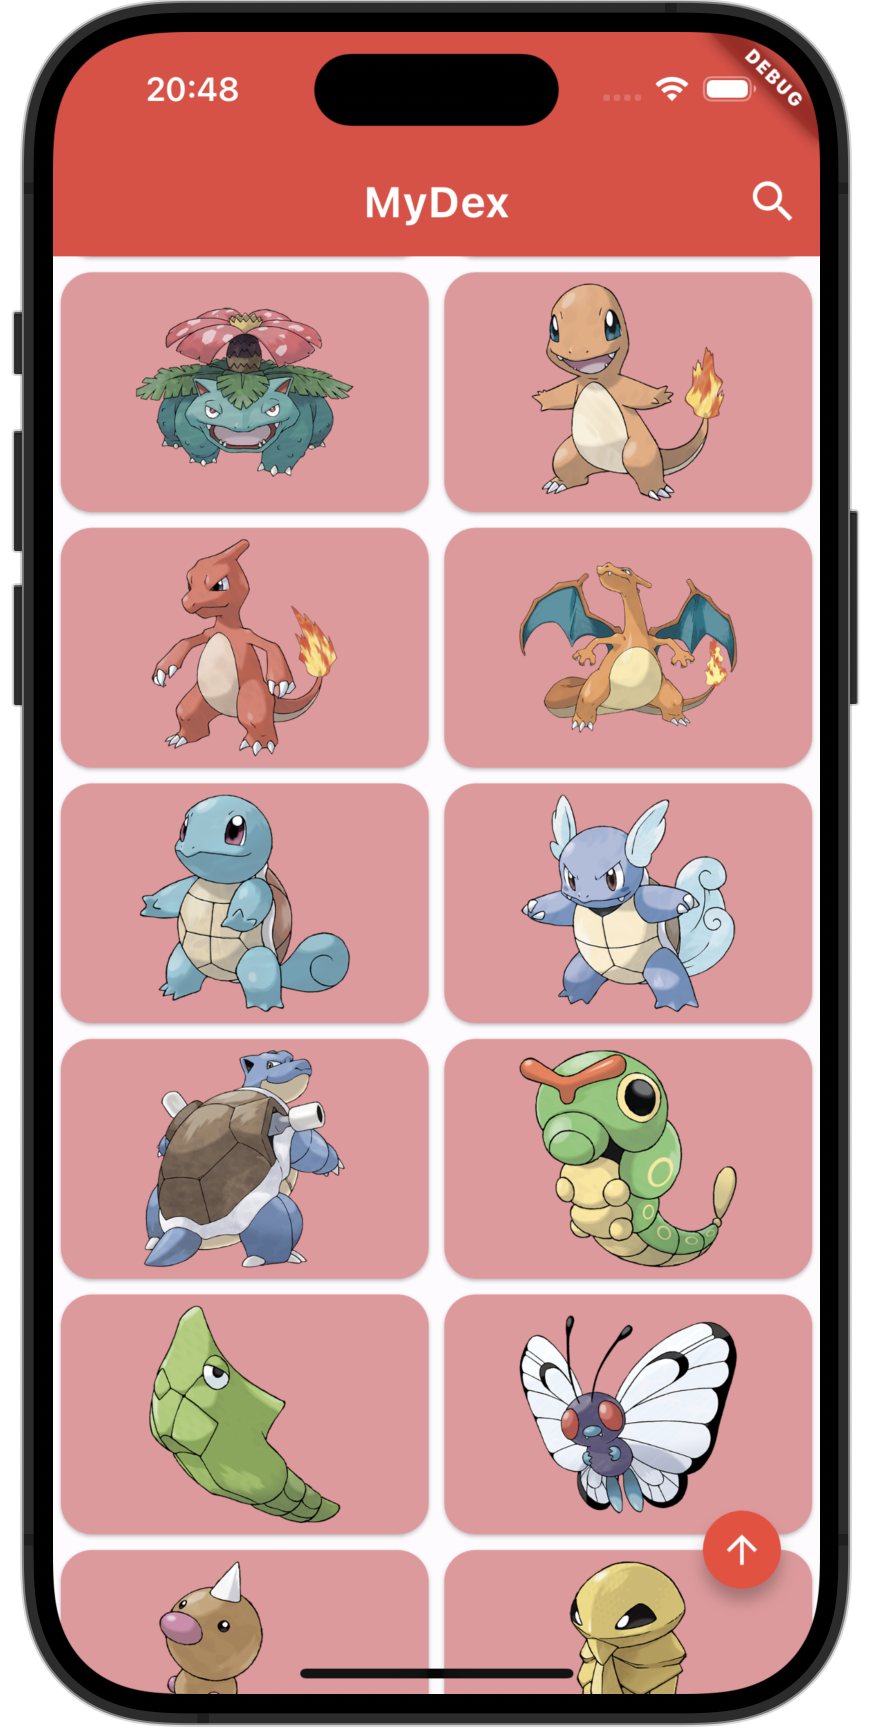
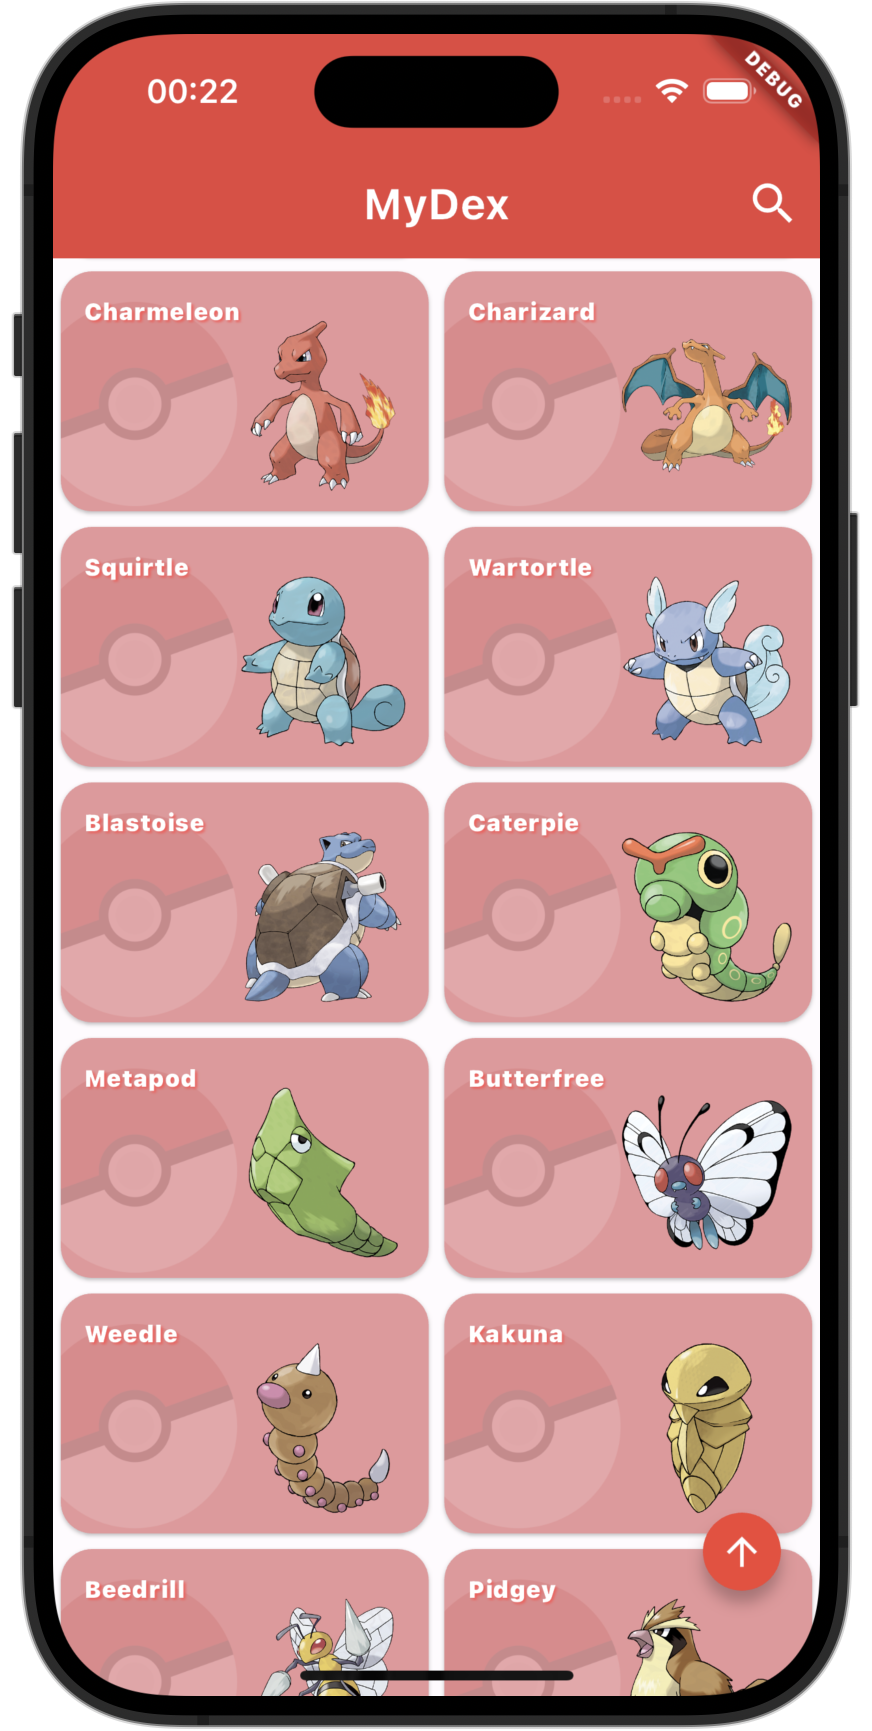
added some detail

diff --git a/lib/screens/home_screen.dart b/lib/screens/home_screen.dart
@@ -67,7 +67,7 @@ class _MyWidgetState extends State<HomeScreen> {
                 height: 40,
                 decoration: BoxDecoration(
                   color: Colors.white,
-                  borderRadius: BorderRadius.circular(20),
+                  borderRadius: BorderRadius.circular(12),
                 ),
                 child: TextField(
                   controller: _searchController,
@@ -134,21 +134,57 @@ class _MyWidgetState extends State<HomeScreen> {
               ),
               children: pokemonList.where((pokemon) {
                 String name = pokemon["name"];
-                return name.contains(_searchController.text) ? true : false;
+                return name.contains(_searchController.text.toLowerCase()) ? true : false;
               }).map((pokemon) {
                 return Card(
                   color: Colors.red[200],
                   shape: RoundedRectangleBorder(borderRadius: BorderRadius.circular(16)),
-                  child: Image.network(
-                    "https://raw.githubusercontent.com/PokeAPI/sprites/master/sprites/pokemon/other/official-artwork/${pokemon["id"]}.png",
-                    loadingBuilder: (context, child, loadingProgress) {
-                      return loadingProgress == null
-                          ? child
-                          : const Center(
-                              child: CircularProgressIndicator(
-                              color: Colors.white,
-                            ));
-                    },
+                  child: Stack(
+                    children: [
+                      Positioned(
+                        left: -30,
+                        child: Opacity(
+                          opacity: 0.15,
+                          child: Image.network(
+                            "https://icon-library.com/images/pokeball-icon-transparent/pokeball-icon-transparent-26.jpg",
+                            height: 136,
+                          ),
+                        ),
+                      ),
+                      Positioned(
+                        top: 12,
+                        left: 12,
+                        child: Text(
+                          "${pokemon["name"].toString()[0].toUpperCase()}${pokemon["name"].toString().substring(1, pokemon["name"].toString().length)}",
+                          style: const TextStyle(
+                            fontSize: 12,
+                            color: Colors.white,
+                            fontWeight: FontWeight.w900,
+                            shadows: [
+                              Shadow(
+                                blurRadius: 1,
+                                color: Colors.redAccent,
+                                offset: Offset(1, 1),
+                              ),
+                            ],
+                          ),
+                        ),
+                      ),
+                      Positioned(
+                        right: 6,
+                        bottom: 6,
+                        child: Image.network(
+                          "https://raw.githubusercontent.com/PokeAPI/sprites/master/sprites/pokemon/other/official-artwork/${pokemon["id"]}.png",
+                          loadingBuilder: (context, child, loadingProgress) {
+                            return loadingProgress == null ? child : const Center(child: CircularProgressIndicator(color: Colors.white));
+                          },
+                          errorBuilder: (context, error, stackTrace) {
+                            return const Center(child: CircularProgressIndicator(color: Colors.white));
+                          },
+                          height: 96,
+                        ),
+                      ),
+                    ],
                   ),
                 );
               }).toList(),
